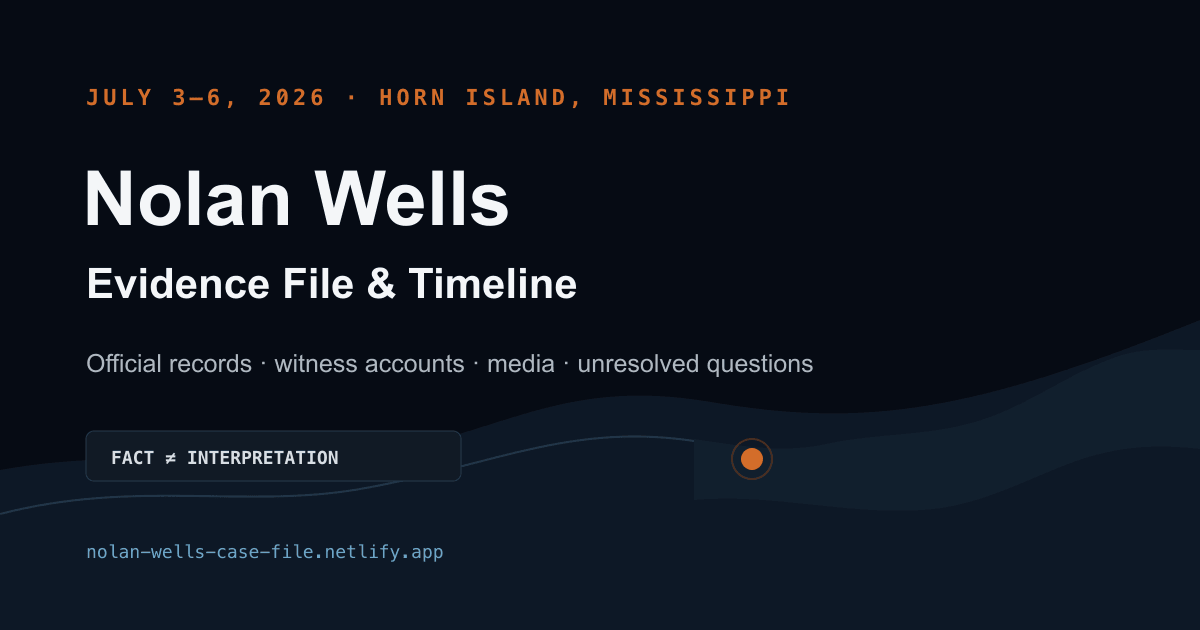
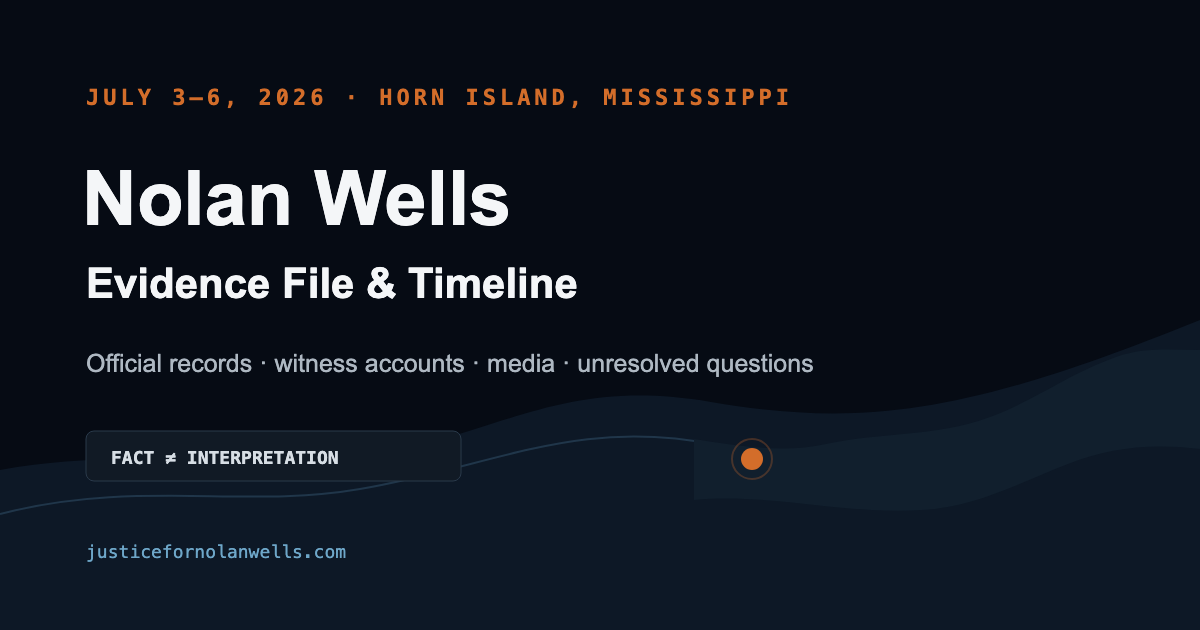
Make custom domain the canonical site

diff --git a/case-summary.html b/case-summary.html
@@ -14,8 +14,8 @@
   <meta property="og:site_name" content="Nolan Wells Evidence File">
   <meta property="og:title" content="What Happened to Nolan Wells? Sourced Case Summary">
   <meta property="og:description" content="Verified GPS milestones, witness accounts, the Horn Island search, and what remains unresolved in the Nolan Wells case.">
-  <meta property="og:url" content="https://nolan-wells-case-file.netlify.app/case-summary">
-  <meta property="og:image" content="https://nolan-wells-case-file.netlify.app/assets/social-card.png">
+  <meta property="og:url" content="https://justicefornolanwells.com/case-summary">
+  <meta property="og:image" content="https://justicefornolanwells.com/assets/social-card.png">
   <meta property="og:image:width" content="1200">
   <meta property="og:image:height" content="630">
   <meta property="og:image:alt" content="Nolan Wells Evidence File and Timeline, July 3–6, 2026, Horn Island, Mississippi">
@@ -24,9 +24,9 @@
   <meta name="twitter:card" content="summary_large_image">
   <meta name="twitter:title" content="What Happened to Nolan Wells? Sourced Case Summary">
   <meta name="twitter:description" content="Verified GPS milestones, witness accounts, the Horn Island search, and the central unresolved window.">
-  <meta name="twitter:image" content="https://nolan-wells-case-file.netlify.app/assets/social-card.png">
-  <link rel="canonical" href="https://nolan-wells-case-file.netlify.app/case-summary">
-  <link rel="alternate" type="text/plain" title="AI-readable site guide" href="https://nolan-wells-case-file.netlify.app/llms.txt">
+  <meta name="twitter:image" content="https://justicefornolanwells.com/assets/social-card.png">
+  <link rel="canonical" href="https://justicefornolanwells.com/case-summary">
+  <link rel="alternate" type="text/plain" title="AI-readable site guide" href="https://justicefornolanwells.com/llms.txt">
   <title>What Happened to Nolan Wells? Sourced Case Summary</title>
   <link rel="icon" href="./assets/favicon.svg" type="image/svg+xml">
   <link rel="preconnect" href="https://fonts.googleapis.com">
@@ -39,43 +39,43 @@
     "@graph": [
       {
         "@type": "WebSite",
-        "@id": "https://nolan-wells-case-file.netlify.app/#website",
+        "@id": "https://justicefornolanwells.com/#website",
         "name": "Nolan Wells Evidence File",
-        "alternateName": ["Nolan Wells Timeline", "Nolan Wells Case File", "nolan-wells-case-file.netlify.app"],
-        "url": "https://nolan-wells-case-file.netlify.app/",
+        "alternateName": ["Nolan Wells Timeline", "Nolan Wells Case File", "justicefornolanwells.com"],
+        "url": "https://justicefornolanwells.com/",
         "inLanguage": "en-US"
       },
       {
         "@type": "Article",
-        "@id": "https://nolan-wells-case-file.netlify.app/case-summary#article",
+        "@id": "https://justicefornolanwells.com/case-summary#article",
         "headline": "What Happened to Nolan Wells? Sourced Case Summary",
         "description": "A sourced summary of the July 2026 Nolan Wells disappearance, search, recovery, verified vessel milestones, witness accounts, and unresolved evidence.",
-        "url": "https://nolan-wells-case-file.netlify.app/case-summary",
-        "mainEntityOfPage": "https://nolan-wells-case-file.netlify.app/case-summary",
-        "isPartOf": {"@id": "https://nolan-wells-case-file.netlify.app/#website"},
+        "url": "https://justicefornolanwells.com/case-summary",
+        "mainEntityOfPage": "https://justicefornolanwells.com/case-summary",
+        "isPartOf": {"@id": "https://justicefornolanwells.com/#website"},
         "datePublished": "2026-07-28",
         "dateModified": "2026-07-28",
         "inLanguage": "en-US",
-        "image": "https://nolan-wells-case-file.netlify.app/assets/social-card.png",
-        "author": {"@type": "Organization", "name": "Nolan Wells Evidence File", "url": "https://nolan-wells-case-file.netlify.app/about"},
-        "publisher": {"@type": "Organization", "name": "Nolan Wells Evidence File", "url": "https://nolan-wells-case-file.netlify.app/"},
+        "image": "https://justicefornolanwells.com/assets/social-card.png",
+        "author": {"@type": "Organization", "name": "Nolan Wells Evidence File", "url": "https://justicefornolanwells.com/about"},
+        "publisher": {"@type": "Organization", "name": "Nolan Wells Evidence File", "url": "https://justicefornolanwells.com/"},
         "about": {
           "@type": "Person",
           "name": "Nolan Xavier Wells",
           "description": "An 18-year-old reported missing after a July 4, 2026 gathering at Horn Island, Mississippi, and recovered near the island on July 6, 2026."
         },
         "citation": [
-          "https://nolan-wells-case-file.netlify.app/documents/MDMR-MP2607-0016-report.pdf",
-          "https://nolan-wells-case-file.netlify.app/master-notes",
-          "https://nolan-wells-case-file.netlify.app/transcripts/seatow-audio.html",
+          "https://justicefornolanwells.com/documents/MDMR-MP2607-0016-report.pdf",
+          "https://justicefornolanwells.com/master-notes",
+          "https://justicefornolanwells.com/transcripts/seatow-audio.html",
           "https://ca.rollingstone.com/culture/culture-news/nolan-wells-video/"
         ]
       },
       {
         "@type": "BreadcrumbList",
         "itemListElement": [
-          {"@type": "ListItem", "position": 1, "name": "Nolan Wells Evidence File", "item": "https://nolan-wells-case-file.netlify.app/"},
-          {"@type": "ListItem", "position": 2, "name": "Case Summary", "item": "https://nolan-wells-case-file.netlify.app/case-summary"}
+          {"@type": "ListItem", "position": 1, "name": "Nolan Wells Evidence File", "item": "https://justicefornolanwells.com/"},
+          {"@type": "ListItem", "position": 2, "name": "Case Summary", "item": "https://justicefornolanwells.com/case-summary"}
         ]
       }
     ]

diff --git a/about.html b/about.html
@@ -14,16 +14,16 @@
   <meta property="og:site_name" content="Nolan Wells Evidence File">
   <meta property="og:title" content="Methodology & Corrections · Nolan Wells Evidence File">
   <meta property="og:description" content="How the archive separates facts, witnesses, media, unknowns, and hypotheses—and how to submit a correction.">
-  <meta property="og:url" content="https://nolan-wells-case-file.netlify.app/about">
-  <meta property="og:image" content="https://nolan-wells-case-file.netlify.app/assets/social-card.png">
+  <meta property="og:url" content="https://justicefornolanwells.com/about">
+  <meta property="og:image" content="https://justicefornolanwells.com/assets/social-card.png">
   <meta property="og:image:width" content="1200">
   <meta property="og:image:height" content="630">
   <meta name="twitter:card" content="summary_large_image">
   <meta name="twitter:title" content="Methodology & Corrections · Nolan Wells Evidence File">
   <meta name="twitter:description" content="Source hierarchy, evidence labels, independence, revision history, and correction process.">
-  <meta name="twitter:image" content="https://nolan-wells-case-file.netlify.app/assets/social-card.png">
-  <link rel="canonical" href="https://nolan-wells-case-file.netlify.app/about">
-  <link rel="alternate" type="text/plain" title="AI-readable site guide" href="https://nolan-wells-case-file.netlify.app/llms.txt">
+  <meta name="twitter:image" content="https://justicefornolanwells.com/assets/social-card.png">
+  <link rel="canonical" href="https://justicefornolanwells.com/about">
+  <link rel="alternate" type="text/plain" title="AI-readable site guide" href="https://justicefornolanwells.com/llms.txt">
   <title>Methodology &amp; Corrections · Nolan Wells Evidence File</title>
   <link rel="icon" href="./assets/favicon.svg" type="image/svg+xml">
   <link rel="preconnect" href="https://fonts.googleapis.com">
@@ -34,11 +34,11 @@
   {
     "@context": "https://schema.org",
     "@type": "AboutPage",
-    "@id": "https://nolan-wells-case-file.netlify.app/about#page",
+    "@id": "https://justicefornolanwells.com/about#page",
     "name": "Methodology and Corrections",
     "description": "Editorial methodology, source hierarchy, independence, and correction process for the Nolan Wells Evidence File.",
-    "url": "https://nolan-wells-case-file.netlify.app/about",
-    "isPartOf": {"@id": "https://nolan-wells-case-file.netlify.app/#website"},
+    "url": "https://justicefornolanwells.com/about",
+    "isPartOf": {"@id": "https://justicefornolanwells.com/#website"},
     "dateModified": "2026-07-28",
     "inLanguage": "en-US"
   }

diff --git a/index.html b/index.html
@@ -18,10 +18,10 @@
   <meta property="og:site_name" content="Nolan Wells Evidence File">
   <meta property="og:title" content="Nolan Wells · Evidence Timeline">
   <meta property="og:description" content="The July 3–6, 2026 Nolan Wells case timeline, separating official records, witness accounts, and unresolved claims.">
-  <meta property="og:url" content="https://nolan-wells-case-file.netlify.app/">
-  <meta property="og:image" content="https://nolan-wells-case-file.netlify.app/assets/social-card.png">
+  <meta property="og:url" content="https://justicefornolanwells.com/">
+  <meta property="og:image" content="https://justicefornolanwells.com/assets/social-card.png">
   <meta name="twitter:card" content="summary_large_image">
-  <link rel="canonical" href="https://nolan-wells-case-file.netlify.app/">
+  <link rel="canonical" href="https://justicefornolanwells.com/">
   <title>Nolan Wells · Evidence Timeline</title>
   <link rel="icon" href="./assets/favicon.svg" type="image/svg+xml">
   <link rel="preconnect" href="https://fonts.googleapis.com">

diff --git a/transcripts/tracestin-part-5.html b/transcripts/tracestin-part-5.html
@@ -13,7 +13,7 @@
 <meta name="viewport" content="width=device-width, initial-scale=1.0">
 <meta name="description" content="Tracestin Shepherd interview transcript concerning anchoring, time with Nolan Wells, the altercation, departure from Horn Island, and later search activity.">
 <meta name="robots" content="index,follow,max-image-preview:large,max-snippet:-1,max-video-preview:-1">
-<link rel="canonical" href="https://nolan-wells-case-file.netlify.app/transcripts/tracestin-part-5.html">
+<link rel="canonical" href="https://justicefornolanwells.com/transcripts/tracestin-part-5.html">
 <title>Tracestin interview | Nolan Wells Case</title>
 <link rel="preconnect" href="https://fonts.googleapis.com">
 <link href="https://fonts.googleapis.com/css2?family=IBM+Plex+Mono:wght@400;500&family=Inter:wght@400;500&display=swap" rel="stylesheet">

diff --git a/transcripts/seatow-audio.html b/transcripts/seatow-audio.html
@@ -13,7 +13,7 @@
 <meta name="viewport" content="width=device-width, initial-scale=1.0">
 <meta name="description" content="Released Sea Tow call audio from July 4, 2026, transcript, separated stereo channels, and timing and speaker-identification limitations in the Nolan Wells case.">
 <meta name="robots" content="index,follow,max-image-preview:large,max-snippet:-1,max-video-preview:-1">
-<link rel="canonical" href="https://nolan-wells-case-file.netlify.app/transcripts/seatow-audio.html">
+<link rel="canonical" href="https://justicefornolanwells.com/transcripts/seatow-audio.html">
 <title>Sea Tow Dispatch Call | Nolan Wells Case</title>
 <link rel="preconnect" href="https://fonts.googleapis.com">
 <link href="https://fonts.googleapis.com/css2?family=IBM+Plex+Mono:wght@400;500&family=Inter:wght@400;500&display=swap" rel="stylesheet">

diff --git a/transcripts/warren-part-1.html b/transcripts/warren-part-1.html
@@ -13,7 +13,7 @@
 <meta name="viewport" content="width=device-width, initial-scale=1.0">
 <meta name="description" content="Part one of Warren’s public interview concerning Nolan Wells, their relationship, the Horn Island trip, and the departure account.">
 <meta name="robots" content="index,follow,max-image-preview:large,max-snippet:-1,max-video-preview:-1">
-<link rel="canonical" href="https://nolan-wells-case-file.netlify.app/transcripts/warren-part-1.html">
+<link rel="canonical" href="https://justicefornolanwells.com/transcripts/warren-part-1.html">
 <title>Warren interview Part 1 | Nolan Wells Case</title>
 <link rel="preconnect" href="https://fonts.googleapis.com">
 <link href="https://fonts.googleapis.com/css2?family=IBM+Plex+Mono:wght@400;500&family=Inter:wght@400;500&display=swap" rel="stylesheet">

diff --git a/transcripts/warren-part-4.html b/transcripts/warren-part-4.html
@@ -13,7 +13,7 @@
 <meta name="viewport" content="width=device-width, initial-scale=1.0">
 <meta name="description" content="Part four of Warren’s public interview concerning Nolan Wells’s phone, keys, return plans, and later follow-up.">
 <meta name="robots" content="index,follow,max-image-preview:large,max-snippet:-1,max-video-preview:-1">
-<link rel="canonical" href="https://nolan-wells-case-file.netlify.app/transcripts/warren-part-4.html">
+<link rel="canonical" href="https://justicefornolanwells.com/transcripts/warren-part-4.html">
 <title>Warren interview Part 4 | Nolan Wells Case</title>
 <link rel="preconnect" href="https://fonts.googleapis.com">
 <link href="https://fonts.googleapis.com/css2?family=IBM+Plex+Mono:wght@400;500&family=Inter:wght@400;500&display=swap" rel="stylesheet">

diff --git a/transcripts/warren-part-2.html b/transcripts/warren-part-2.html
@@ -13,7 +13,7 @@
 <meta name="viewport" content="width=device-width, initial-scale=1.0">
 <meta name="description" content="Part two of Warren’s public interview concerning Nolan Wells and the Horn Island gathering on July 4, 2026.">
 <meta name="robots" content="index,follow,max-image-preview:large,max-snippet:-1,max-video-preview:-1">
-<link rel="canonical" href="https://nolan-wells-case-file.netlify.app/transcripts/warren-part-2.html">
+<link rel="canonical" href="https://justicefornolanwells.com/transcripts/warren-part-2.html">
 <title>Warren interview Part 2 | Nolan Wells Case</title>
 <link rel="preconnect" href="https://fonts.googleapis.com">
 <link href="https://fonts.googleapis.com/css2?family=IBM+Plex+Mono:wght@400;500&family=Inter:wght@400;500&display=swap" rel="stylesheet">

diff --git a/transcripts/warren-part-3.html b/transcripts/warren-part-3.html
@@ -13,7 +13,7 @@
 <meta name="viewport" content="width=device-width, initial-scale=1.0">
 <meta name="description" content="Part three of Warren’s public interview, including questions about leaving Horn Island without Nolan Wells.">
 <meta name="robots" content="index,follow,max-image-preview:large,max-snippet:-1,max-video-preview:-1">
-<link rel="canonical" href="https://nolan-wells-case-file.netlify.app/transcripts/warren-part-3.html">
+<link rel="canonical" href="https://justicefornolanwells.com/transcripts/warren-part-3.html">
 <title>Warren interview Part 3 | Nolan Wells Case</title>
 <link rel="preconnect" href="https://fonts.googleapis.com">
 <link href="https://fonts.googleapis.com/css2?family=IBM+Plex+Mono:wght@400;500&family=Inter:wght@400;500&display=swap" rel="stylesheet">

diff --git a/archive.html b/archive.html
@@ -7,7 +7,7 @@
   <meta charset="utf-8"><meta name="viewport" content="width=device-width, initial-scale=1">
   <meta name="description" content="Evidence archive tools for the Nolan Wells public timeline."><meta name="theme-color" content="#060b14">
   <meta name="robots" content="index,follow,max-image-preview:large,max-snippet:-1,max-video-preview:-1">
-  <link rel="canonical" href="https://nolan-wells-case-file.netlify.app/archive">
+  <link rel="canonical" href="https://justicefornolanwells.com/archive">
   <title>Evidence Archive · Nolan Wells</title>
   <link rel="icon" href="./assets/favicon.svg" type="image/svg+xml">
   <link rel="preconnect" href="https://fonts.googleapis.com"><link rel="preconnect" href="https://fonts.gstatic.com" crossorigin>

diff --git a/assets/seo.js b/assets/seo.js
@@ -1,7 +1,7 @@
 (function () {
   'use strict';
 
-  const origin = 'https://nolan-wells-case-file.netlify.app';
+  const origin = 'https://justicefornolanwells.com';
   const siteName = 'Nolan Wells Evidence File';
   const socialImage = `${origin}/assets/social-card.png`;
   const modified = '2026-07-28';
@@ -285,7 +285,7 @@
       '@type': 'WebSite',
       '@id': `${origin}/#website`,
       name: siteName,
-      alternateName: ['Nolan Wells Timeline', 'Nolan Wells Case File', 'nolan-wells-case-file.netlify.app'],
+      alternateName: ['Nolan Wells Timeline', 'Nolan Wells Case File', 'justicefornolanwells.com'],
       url: `${origin}/`,
       description: page.description,
       inLanguage: 'en-US'

diff --git a/documents/master-investigation-notes.html b/documents/master-investigation-notes.html
@@ -14,7 +14,7 @@
   <meta name="description" content="Canonical working evidence file for the Nolan Wells timeline.">
   <meta name="robots" content="index,follow,max-image-preview:large,max-snippet:-1,max-video-preview:-1">
   <meta name="theme-color" content="#060b14">
-  <link rel="canonical" href="https://nolan-wells-case-file.netlify.app/master-notes">
+  <link rel="canonical" href="https://justicefornolanwells.com/master-notes">
   <title>Master Investigation Notes · Nolan Wells Evidence File</title>
   <link rel="icon" href="/assets/favicon.svg" type="image/svg+xml">
   <link rel="preconnect" href="https://fonts.googleapis.com">
